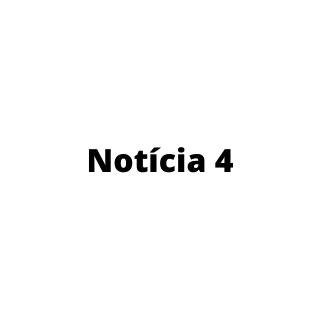
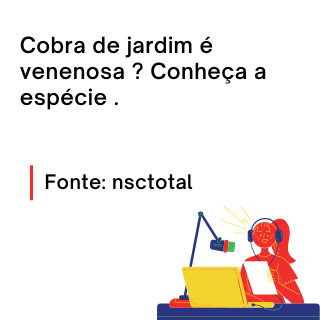
Ajustando noticias

diff --git a/index.html b/index.html
@@ -48,7 +48,7 @@
                     <a href="https://super.abril.com.br/ciencia/as-cobras-sabem-quanto-veneno-possuem-e-nao-atacam-se-ele-estiver-escasso/" target="_blank"><img class="img-noticia" src="assets/img/noticias-00.png" alt=""></a>
                     <a href="https://www.iq.unesp.br/#!/noticia/762/veneno-de-cobra-brasileira-tem-molecula-que-inibe-o-coronavirus" target="_blank"><img class="img-noticia" src="assets/img/noticias-01.png" alt=""></a>
                     <a href="https://g1.globo.com/sp/campinas-regiao/terra-da-gente/noticia/2021/07/14/exclusivas-e-ameacadas-conheca-as-serpentes-brasileiras-que-correm-risco-de-extincao.ghtml" target="_blank"><img class="img-noticia" src="assets/img/noticias-02.png" alt=""></a>
-                    <a href="" target="_blank"><img class="img-noticia" src="assets/img/noticias-03.png" alt=""></a>
+                    <a href="https://www.nsctotal.com.br/noticias/cobra-de-jardim" target="_blank"><img class="img-noticia" src="assets/img/noticias-03.png" alt=""></a>
                     <a href="http://www.upe.br/" target="_blank"><img class="img-noticia" src="assets/img/noticias-upe.png" alt=""></a>
                 </div>
             </div>
